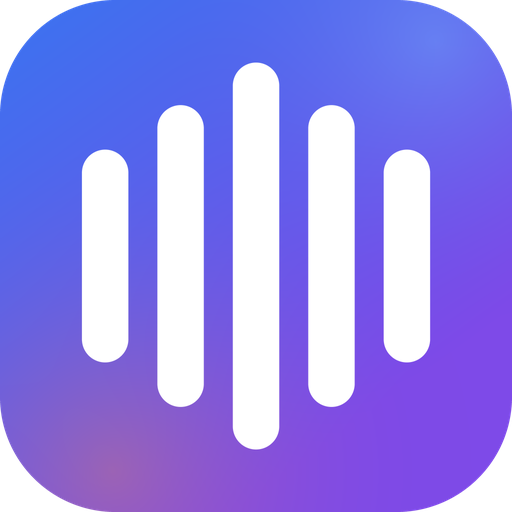
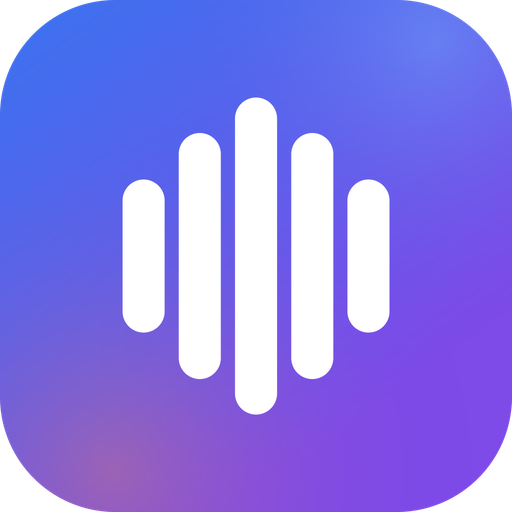
修正图标前景比例：按 72dp 安全区换算，发布 1.5.1
自适应图标图层是 108dp 画布但系统只露中间 72dp，1.5.0 把设计稿
的 61.9% 直接套在 108dp 上，可见区里占了 92.9%，所以装到手机上顶满。
改为按 72dp 安全区设计：最大柱高 44.58dp（占画布 41.3%），可见区回到
61.9%。自适应前景、单色 vector、老式兜底图标统一同一套几何。

Changed region(s): [[0.1562, 0.125, 0.8438, 0.875]]

diff --git a/docs/icon-concepts/build_icon.py b/docs/icon-concepts/build_icon.py
@@ -1,5 +1,5 @@
 
-import os, math
+import os
 import numpy as np
 from PIL import Image, ImageDraw
 
@@ -12,6 +12,23 @@ C1 = (58, 116, 240)    # #3A74F0
 C2 = (126, 74, 232)    # #7E4AE8
 WARM = (255, 140, 60)
 COOL = (120, 190, 255)
+
+# ---------------------------------------------------------------
+# 几何：全部相对「图形自身最大柱高」的比例，来自选定稿 01-forge-wave
+# ---------------------------------------------------------------
+H_RATIOS = [0.4827, 0.7761, 1.0, 0.7761, 0.4827]  # 5 根柱高
+W_RATIO  = 0.1325                                  # 柱宽 / 最大柱高
+G_RATIO  = 0.0449                                  # 间距 / 最大柱高
+
+# 选定稿里图形最大柱高占整块图标的 61.9%
+GLYPH_OF_TILE = 0.6191
+
+# 自适应图标：108dp 画布，系统只显示中间 72dp，所以按 72dp 设计再换算
+SAFE_DP   = 72.0
+CANVAS_DP = 108.0
+GLYPH_FRAC_ADAPTIVE = GLYPH_OF_TILE * SAFE_DP / CANVAS_DP   # 0.4127
+GLYPH_FRAC_LEGACY   = GLYPH_OF_TILE                          # 0.6191
+
 
 def background(size):
     y = np.linspace(0, 1, size)[:, None]
@@ -30,28 +47,27 @@ def background(size):
     add((size * 0.85, size * 0.08), size * 0.55, COOL, 0.35)
     return Image.fromarray(np.clip(arr, 0, 255).astype("uint8"))
 
-# bars defined in 108dp space -> fractions of canvas
-BAR_W   = 7.2 / 108.0
-BAR_GAP = 4.5 / 108.0
-HEIGHTS = [33.0, 46.8, 60.0, 46.8, 33.0]  # dp
-MAX_H   = 60.0
 
-def draw_bars(img, ss=8, zoom=1.0):
+def draw_bars(img, glyph_frac, ss=8):
+    """glyph_frac = 最大柱高占画布边长的比例"""
     size = img.size[0]
-    layer = Image.new("RGBA", (size * ss, size * ss), (0, 0, 0, 0))
-    d = ImageDraw.Draw(layer)
     S = size * ss
-    w = BAR_W * S * zoom
-    gap = BAR_GAP * S * zoom
+    layer = Image.new("RGBA", (S, S), (0, 0, 0, 0))
+    d = ImageDraw.Draw(layer)
+    H = glyph_frac * S
+    w = W_RATIO * H
+    gap = G_RATIO * H
     total = 5 * w + 4 * gap
     x0 = (S - total) / 2
     cy = S / 2
-    for i, hdp in enumerate(HEIGHTS):
-        h = (hdp / 108.0) * S * zoom
+    for i, r in enumerate(H_RATIOS):
+        h = r * H
         x = x0 + i * (w + gap)
-        d.rounded_rectangle([x, cy - h / 2, x + w, cy + h / 2], radius=w / 2, fill=(255, 255, 255, 255))
+        d.rounded_rectangle([x, cy - h / 2, x + w, cy + h / 2],
+                            radius=w / 2, fill=(255, 255, 255, 255))
     layer = layer.resize((size, size), Image.LANCZOS)
     return Image.alpha_composite(img.convert("RGBA"), layer)
+
 
 def squircle_alpha(size, ratio=0.225):
     ss = 4
@@ -60,18 +76,20 @@ def squircle_alpha(size, ratio=0.225):
                                         radius=int(size * ss * ratio), fill=255)
     return m.resize((size, size), Image.LANCZOS)
 
+
 def circle_alpha(size):
     ss = 4
     m = Image.new("L", (size * ss, size * ss), 0)
     ImageDraw.Draw(m).ellipse([0, 0, size * ss - 1, size * ss - 1], fill=255)
     return m.resize((size, size), Image.LANCZOS)
 
+
 DENSITIES = {"mdpi": 1.0, "hdpi": 1.5, "xhdpi": 2.0, "xxhdpi": 3.0, "xxxhdpi": 4.0}
 written = []
 
-# ---- adaptive icon layers (108dp canvas) ----
+# ---- 自适应图标图层（108dp 画布，图形按 72dp 安全区设计）----
 for dpi, scale in DENSITIES.items():
-    px = int(round(108 * scale))
+    px = int(round(CANVAS_DP * scale))
     folder = os.path.join(RES, "mipmap-" + dpi)
     os.makedirs(folder, exist_ok=True)
 
@@ -79,14 +97,14 @@ for dpi, scale in DENSITIES.items():
     p = os.path.join(folder, "ic_launcher_background.png")
     bg.save(p); written.append(p)
 
-    fg = draw_bars(Image.new("RGBA", (px, px), (0, 0, 0, 0)), zoom=1.08)
+    fg = draw_bars(Image.new("RGBA", (px, px), (0, 0, 0, 0)), GLYPH_FRAC_ADAPTIVE)
     p = os.path.join(folder, "ic_launcher_foreground.png")
     fg.save(p); written.append(p)
 
-# ---- legacy launcher icons ----
+# ---- 老式图标（整块即图形，按选定稿比例）----
 for dpi, scale in DENSITIES.items():
     px = int(round(48 * scale))
-    master = draw_bars(background(px * 2).resize((px * 2, px * 2), Image.LANCZOS), zoom=1.36)
+    master = draw_bars(background(px * 2).resize((px * 2, px * 2), Image.LANCZOS), GLYPH_FRAC_LEGACY)
     sq = master.copy(); sq.putalpha(squircle_alpha(px * 2))
     sq = sq.resize((px, px), Image.LANCZOS)
     p = os.path.join(RES, "mipmap-" + dpi, "ic_launcher.png")
@@ -97,37 +115,45 @@ for dpi, scale in DENSITIES.items():
     p = os.path.join(RES, "mipmap-" + dpi, "ic_launcher_round.png")
     rd.save(p); written.append(p)
 
-# ---- Play Store / docs master ----
-master = draw_bars(background(1024), zoom=1.36).resize((512, 512), Image.LANCZOS).convert("RGB")
-p = os.path.join(OUT, "app-icon-512.png"); master.save(p); written.append(p)
-sq = draw_bars(background(1024), zoom=1.36)
+# ---- 商店 / 文档母版 ----
+draw_bars(background(1024), GLYPH_FRAC_LEGACY).resize((512, 512), Image.LANCZOS).convert("RGB") \
+    .save(os.path.join(OUT, "app-icon-512.png"))
+written.append(os.path.join(OUT, "app-icon-512.png"))
+sq = draw_bars(background(1024), GLYPH_FRAC_LEGACY)
 sq.putalpha(squircle_alpha(1024))
 sq.resize((512, 512), Image.LANCZOS).save(os.path.join(OUT, "app-icon-512-rounded.png"))
 written.append(os.path.join(OUT, "app-icon-512-rounded.png"))
 
-# ---- preview: adaptive icon under launcher masks ----
+# ---- 预览：按系统遮罩裁切，圆形遮罩只露出中间 72dp ----
 def masked(src, size, mask):
     im = src.resize((size, size), Image.LANCZOS).copy()
     im.putalpha(mask.resize((size, size), Image.LANCZOS))
     return im
 
-prev_size = 220
-canvas = Image.new("RGBA", (5 * prev_size + 60, prev_size + 60), (246, 247, 250, 255))
-bg_big = background(1080); fg_big = draw_bars(Image.new("RGBA", (1080, 1080), (0, 0, 0, 0)), zoom=1.08)
-adaptive = Image.alpha_composite(bg_big.convert("RGBA"), fg_big)
-masks = [
-    ("圆形", circle_alpha(1080)),
-    ("圆角方", squircle_alpha(1080, 0.20)),
-    ("方形", Image.new("L", (1080, 1080), 255)),
-]
+prev = 220
+canvas = Image.new("RGBA", (5 * prev + 60, prev + 60), (246, 247, 250, 255))
+adaptive = Image.alpha_composite(background(1080).convert("RGBA"),
+                                 draw_bars(Image.new("RGBA", (1080, 1080), (0, 0, 0, 0)), GLYPH_FRAC_ADAPTIVE))
+# 系统遮罩直径 = 画布的 72/108
+m72 = int(1080 * SAFE_DP / CANVAS_DP)
+def inset_mask(shape):
+    m = Image.new("L", (1080, 1080), 0)
+    off = (1080 - m72) // 2
+    if shape == "circle":
+        ImageDraw.Draw(m).ellipse([off, off, off + m72, off + m72], fill=255)
+    else:
+        ImageDraw.Draw(m).rounded_rectangle([off, off, off + m72, off + m72],
+                                            radius=int(m72 * 0.22), fill=255)
+    return m
 x = 30
-for name, m in masks:
-    canvas.alpha_composite(masked(adaptive, prev_size, m.resize((prev_size, prev_size), Image.LANCZOS)), (x, 20))
-    x += prev_size + 10
-for sz in (96, 64, 48, 32):
-    canvas.alpha_composite(masked(adaptive, sz, squircle_alpha(sz, 0.22)), (x, 20))
+for shape in ("circle", "squircle"):
+    canvas.alpha_composite(masked(adaptive, prev, inset_mask(shape)), (x, 20))
+    x += prev + 10
+for sz in (96, 64, 48, 32, 24):
+    canvas.alpha_composite(masked(adaptive, sz, inset_mask("circle")), (x, 20))
     x += sz + 8
 canvas.save(os.path.join(OUT, "adaptive-preview.png"))
 
-print("\n".join(written))
 print("count", len(written))
+print("glyph height on 108dp canvas: %.2f dp (%.1f%% of the 72dp visible area)"
+      % (GLYPH_FRAC_ADAPTIVE * 108, GLYPH_OF_TILE * 100))

diff --git a/docs/icon-concepts/gen_monochrome.py b/docs/icon-concepts/gen_monochrome.py
@@ -2,31 +2,37 @@
 import os
 RES = r"D:\Project\SonicForge\app\src\main\res"
 
-ZOOM = 1.08
-BAR_W, GAP = 7.2*ZOOM, 4.5*ZOOM
-HEIGHTS = [h*ZOOM for h in [33.0, 46.8, 60.0, 46.8, 33.0]]
-total = 5*BAR_W + 4*GAP
-x0 = (108 - total) / 2.0
-r = BAR_W / 2.0
+CANVAS = 108.0
+SAFE   = 72.0
+GLYPH_OF_TILE = 0.6191
+H = GLYPH_OF_TILE * SAFE
+H_RATIOS = [0.4827, 0.7761, 1.0, 0.7761, 0.4827]
+W = 0.1325 * H
+G = 0.0449 * H
+
+total = 5*W + 4*G
+x0 = (CANVAS - total) / 2.0
+r = W / 2.0
 
 def rr(x, y, w, h, r):
-    return (f"M{x+r:.2f},{y:.2f} H{x+w-r:.2f} A{r:.2f},{r:.2f} 0 0 1 {x+w:.2f},{y+r:.2f} "
-            f"V{y+h-r:.2f} A{r:.2f},{r:.2f} 0 0 1 {x+w-r:.2f},{y+h:.2f} "
-            f"H{x+r:.2f} A{r:.2f},{r:.2f} 0 0 1 {x:.2f},{y+h-r:.2f} "
-            f"V{y+r:.2f} A{r:.2f},{r:.2f} 0 0 1 {x+r:.2f},{y:.2f} Z")
+    return (f"M{x+r:.3f},{y:.3f} H{x+w-r:.3f} A{r:.3f},{r:.3f} 0 0 1 {x+w:.3f},{y+r:.3f} "
+            f"V{y+h-r:.3f} A{r:.3f},{r:.3f} 0 0 1 {x+w-r:.3f},{y+h:.3f} "
+            f"H{x+r:.3f} A{r:.3f},{r:.3f} 0 0 1 {x:.3f},{y+h-r:.3f} "
+            f"V{y+r:.3f} A{r:.3f},{r:.3f} 0 0 1 {x+r:.3f},{y:.3f} Z")
 
 paths = []
-for i, h in enumerate(HEIGHTS):
-    x = x0 + i*(BAR_W+GAP)
-    y = (108 - h)/2.0
-    paths.append(rr(x, y, BAR_W, h, r))
+for i, ratio in enumerate(H_RATIOS):
+    h = ratio * H
+    x = x0 + i*(W+G)
+    y = (CANVAS - h)/2.0
+    paths.append(rr(x, y, W, h, r))
 
 body = "\n".join(
     '    <path\n        android:fillColor="#FFFFFFFF"\n        android:pathData="%s" />' % p
     for p in paths)
 
 xml = f'''<?xml version="1.0" encoding="utf-8"?>
-<!-- SonicForge 图标前景：5 根圆头音柱（均衡波形），居中于 108dp 画布的安全区内 -->
+<!-- SonicForge 图标单色层：5 根圆头音柱，按 72dp 安全区设计（最大柱高 {H:.2f}dp / 108dp 画布） -->
 <vector xmlns:android="http://schemas.android.com/apk/res/android"
     android:width="108dp"
     android:height="108dp"
@@ -37,4 +43,4 @@ xml = f'''<?xml version="1.0" encoding="utf-8"?>
 '''
 p = os.path.join(RES, "drawable", "ic_launcher_monochrome.xml")
 open(p, "w", encoding="utf-8", newline="\n").write(xml)
-print(xml)
+print(f"H={H:.3f} W={W:.3f} G={G:.3f} x0={x0:.3f}")
